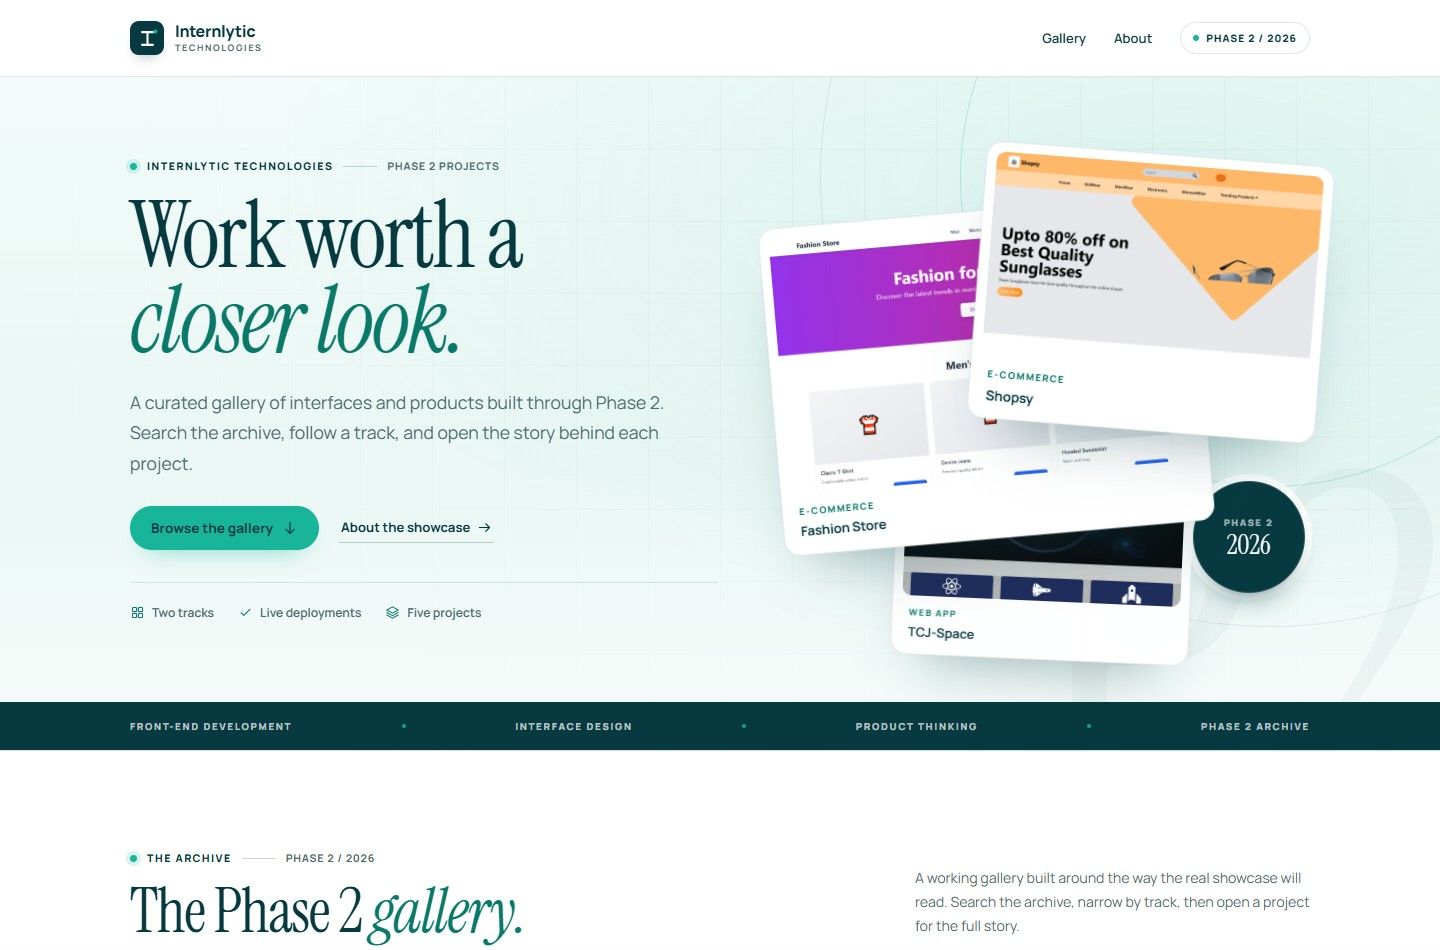
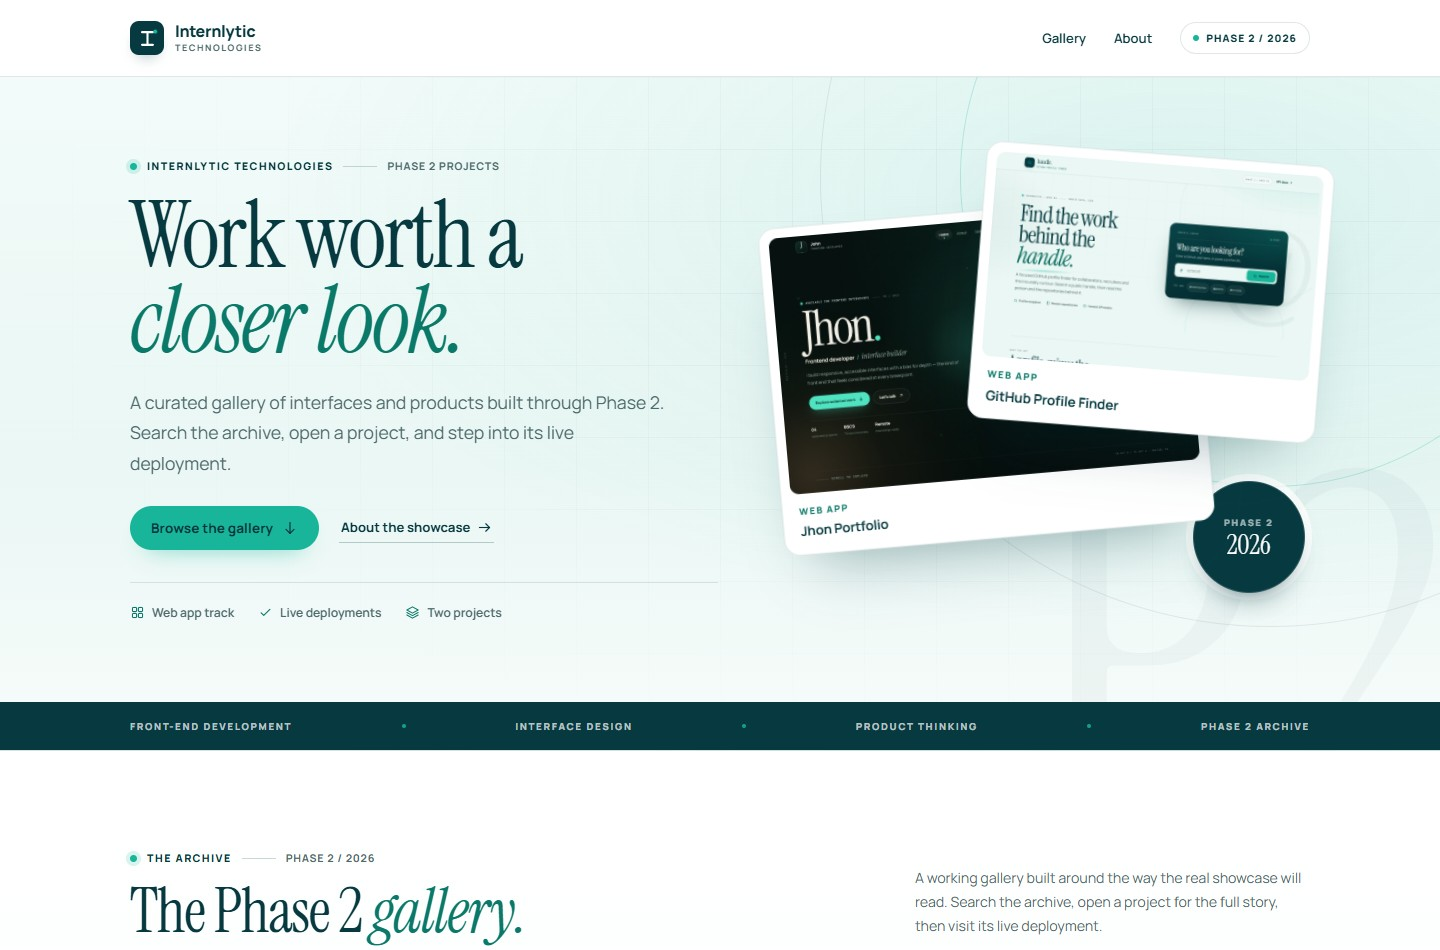
Narrow the gallery to the two front-end projects
Remove Fashion Store, Shopsy and TCJ-Space so the archive holds only the
portfolio and GitHub Profile Finder. The hero, about panel, meta tags, README,
previews and social cover now describe two projects on one track; filter chips
are derived from the tracks actually present, so the empty E-commerce category
no longer appears, and the unused screenshots are deleted. The mobile hero seal
also moves clear of the first card's caption now that only two preview cards
render.

diff --git a/src/data/projects.ts b/src/data/projects.ts
@@ -1,7 +1,7 @@
 import type { Project } from '../types'
 
 /**
- * Five existing Phase 2 projects, linked to their public deployments.
+ * Two existing Phase 2 projects, linked to their public deployments.
  *
  * All links were supplied by the project owner and return a live page.
  * Repository links are omitted rather than pointing at an unverified repo.
@@ -9,60 +9,6 @@ import type { Project } from '../types'
  * original build date.
  */
 export const showcaseProjects: Project[] = [
-  {
-    id: 'fashion-store',
-    projectTitle: 'Fashion Store',
-    internName: 'Jhon',
-    track: 'E-commerce',
-    description:
-      'A responsive clothing storefront with men’s, women’s and children’s collections, product cards and cart controls.',
-    longDescription:
-      'Fashion Store was built to practise scale: a storefront that stays coherent when the catalogue grows. The live site carries three collections, reusable product and navigation components, and a grid that moves from a wide desktop layout to a single readable column on phones.',
-    thumbnailUrl: 'thumbnails/fashion-store.jpg',
-    thumbnailAlt:
-      'Screenshot of the Fashion Store homepage with a colourful hero and a three-column men’s collection grid.',
-    liveUrl: 'https://fashion-shop2468.netlify.app/',
-    githubUrl: null,
-    technologies: ['React', 'TypeScript', 'Tailwind CSS'],
-    approvalStatus: 'approved',
-    createdAt: '2026-10-27T00:00:00.000Z',
-  },
-  {
-    id: 'shopsy',
-    projectTitle: 'Shopsy',
-    internName: 'Jhon',
-    track: 'E-commerce',
-    description:
-      'A shopping interface focused on clear discovery, promotion carousels and touch-friendly product browsing.',
-    longDescription:
-      'Shopsy is a component-first shopping UI built around effortless browsing. Category navigation, a rotating promotion area and consistent product cards share one spacing system, and the controls are sized for touch first. The live build covers kidswear, menswear, womenswear, electronics and a trending-products shelf.',
-    thumbnailUrl: 'thumbnails/shopsy.jpg',
-    thumbnailAlt:
-      'Screenshot of the Shopsy storefront with an orange promotion banner, category navigation and sunglasses artwork.',
-    liveUrl: 'https://shopsy-12345.netlify.app/',
-    githubUrl: null,
-    technologies: ['React', 'Tailwind CSS', 'HTML5'],
-    approvalStatus: 'approved',
-    createdAt: '2026-10-27T00:00:00.000Z',
-  },
-  {
-    id: 'tcj-space',
-    projectTitle: 'TCJ-Space',
-    internName: 'Jhon',
-    track: 'Web app',
-    description:
-      'A satellite information site that turns dense material into a calm, scannable layout.',
-    longDescription:
-      'TCJ-Space presents satellite services without overwhelming the reader. The design leans on hierarchy: quiet navigation, strong section headings and a dark, image-led hero. The live site introduces satellite services, a technology overview and supporting detail sections across a responsive layout.',
-    thumbnailUrl: 'thumbnails/tcj-space.jpg',
-    thumbnailAlt:
-      'Screenshot of the TCJ-Space homepage with a dark starfield, glowing Earth and satellite service cards.',
-    liveUrl: 'https://tcj-space1.netlify.app/',
-    githubUrl: null,
-    technologies: ['React', 'Tailwind CSS', 'HTML5'],
-    approvalStatus: 'approved',
-    createdAt: '2026-10-27T00:00:00.000Z',
-  },
   {
     id: 'week-02-portfolio',
     projectTitle: 'Jhon Portfolio',

diff --git a/src/components/ProjectsPage.tsx b/src/components/ProjectsPage.tsx
@@ -46,6 +46,16 @@ export function ProjectsPage() {
     [projects, query, track],
   )
 
+  // Only offer tracks that the archive actually contains, so the toolbar never
+  // advertises an empty category.
+  const filterTracks = useMemo(
+    () =>
+      status === 'success'
+        ? TRACKS.filter((item) => counts[item] > 0)
+        : [...TRACKS],
+    [counts, status],
+  )
+
   const isFiltering = query.trim().length > 0 || track !== 'all'
 
   let summary = 'Loading projects…'
@@ -98,8 +108,8 @@ export function ProjectsPage() {
             </h2>
             <p className="section-note">
               A working gallery built around the way the real showcase will
-              read. Search the archive, narrow by track, then open a project for
-              the full story.
+              read. Search the archive, open a project for the full story, then
+              visit its live deployment.
             </p>
           </div>
         </div>
@@ -123,7 +133,7 @@ export function ProjectsPage() {
             counts={status === 'success' ? counts : undefined}
             onChange={setTrack}
             total={projects.length}
-            tracks={[...TRACKS]}
+            tracks={filterTracks}
           />
 
           <div className="toolbar-foot">
@@ -180,7 +190,7 @@ export function ProjectsPage() {
 
         <p className="sample-note">
           <Icon name="info" size={15} />
-          Five existing Phase 2 projects, each linked to its public deployment.
+          Two existing Phase 2 projects, each linked to its public deployment.
           Only work cleared for public display should appear in a production
           gallery.
         </p>

diff --git a/index.html b/index.html
@@ -7,7 +7,7 @@
     <meta name="theme-color" content="#073A40" />
     <meta
       name="description"
-      content="A curated gallery of front-end and e-commerce projects built through Internlytic Phase 2, with live links to each deployment."
+      content="A curated gallery of front-end projects built through Internlytic Phase 2, with live links to each deployment."
     />
 
     <title>Internlytic — Phase 2 Projects Showcase</title>
@@ -25,7 +25,7 @@
     <meta property="og:title" content="Internlytic — Phase 2 Projects Showcase" />
     <meta
       property="og:description"
-      content="A curated gallery of front-end and e-commerce projects built through Internlytic Phase 2. Search the archive, filter by track and open each live project."
+      content="A curated gallery of front-end projects built through Internlytic Phase 2. Search the archive and open each live project."
     />
     <meta property="og:image" content="./og-cover.jpg" />
     <meta property="og:image:alt" content="Internlytic Phase 2 intern projects gallery" />
@@ -35,7 +35,7 @@
     <meta name="twitter:title" content="Internlytic — Phase 2 Projects Showcase" />
     <meta
       name="twitter:description"
-      content="A curated gallery of front-end and e-commerce projects built through Internlytic Phase 2. Search the archive, filter by track and open each live project."
+      content="A curated gallery of front-end projects built through Internlytic Phase 2. Search the archive and open each live project."
     />
     <meta name="twitter:image" content="./og-cover.jpg" />
   </head>

diff --git a/src/components/AboutShowcase.tsx b/src/components/AboutShowcase.tsx
@@ -49,18 +49,18 @@ export function AboutShowcase() {
 
           <p className="about-copy-text">
             Each entry follows the shape of a real submission record — creator,
-            track, summary, stack and links. The five projects here are existing
+            track, summary, stack and links. Both projects here are existing
             live deployments; external links render only when a project supplies
             a valid public URL.
           </p>
 
           <div className="about-facts">
             <div>
-              <strong>02</strong>
-              <span>Tracks</span>
+              <strong>01</strong>
+              <span>Track</span>
             </div>
             <div>
-              <strong>05</strong>
+              <strong>02</strong>
               <span>Live projects</span>
             </div>
             <div>
@@ -93,7 +93,7 @@ export function AboutShowcase() {
             <Icon name="sparkle" size={18} />
           </span>
           <p>
-            <strong>Data &amp; privacy.</strong> This gallery runs on five
+            <strong>Data &amp; privacy.</strong> This gallery runs on two
             existing public projects. There is no production Internlytic
             database connection; a production version would read only approved
             rows from Supabase through row-level security, link each project to

diff --git a/src/components/Hero.tsx b/src/components/Hero.tsx
@@ -30,8 +30,8 @@ export function Hero() {
 
           <p className="hero-lede">
             A curated gallery of interfaces and products built through Phase 2.
-            Search the archive, follow a track, and open the story behind each
-            project.
+            Search the archive, open a project, and step into its live
+            deployment.
           </p>
 
           <div className="hero-actions">
@@ -48,7 +48,7 @@ export function Hero() {
           <ul className="hero-facts">
             <li>
               <Icon name="grid" size={15} />
-              Two tracks
+              Web app track
             </li>
             <li>
               <Icon name="check" size={15} />
@@ -56,7 +56,7 @@ export function Hero() {
             </li>
             <li>
               <Icon name="layers" size={15} />
-              Five projects
+              Two projects
             </li>
           </ul>
         </div>

diff --git a/src/styles/global.css b/src/styles/global.css
@@ -2242,8 +2242,8 @@ ol {
   }
 
   .hero-seal {
-    bottom: 6%;
-    right: 2%;
+    bottom: 0;
+    right: -3%;
   }
 
   .hero-visual,

diff --git a/README.md b/README.md
@@ -6,13 +6,10 @@ A curated project gallery built for **Internlytic Technologies — Phase 2 Front
 
 ## Overview
 
-The showcase presents **five existing Phase 2 projects**, each linked to its public Netlify deployment. The records are real work rather than placeholder content: titles, descriptions, technology stacks and thumbnails all describe the deployed sites, and every card links straight to the live page.
+The showcase presents **two existing Phase 2 projects**, each linked to its public Netlify deployment. The records describe real work rather than placeholder content: titles, descriptions, technology stacks and thumbnails all match the deployed sites, and every card links straight to the live page.
 
 | Project | Track | Live deployment |
 | --- | --- | --- |
-| Fashion Store | E-commerce | <https://fashion-shop2468.netlify.app/> |
-| Shopsy | E-commerce | <https://shopsy-12345.netlify.app/> |
-| TCJ-Space | Web app | <https://tcj-space1.netlify.app/> |
 | Jhon Portfolio | Web app | <https://week-02-portfolio.netlify.app/> |
 | GitHub Profile Finder | Web app | <https://week-03-github-finder.netlify.app/> |
 
@@ -23,7 +20,7 @@ No production Internlytic data, private records or credentials are included. Rep
 - **Gallery cards** with a real project screenshot, title, intern name, track, short description, technology tags, a **View project** action and a **Live** link to the deployment.
 - **Project detail dialog** with the screenshot, full description, technology stack, the date the entry was added to the archive, approval status and conditional project links. Closes with Escape, the close button or a backdrop click, and returns focus to the card that opened it.
 - **Search by project title or intern name** — case- and accent-insensitive, with a `/` keyboard shortcut and Escape to clear.
-- **Track filters** (Web app, E-commerce) with live project counts, `aria-pressed` state and a one-click reset. Search and track filters combine.
+- **Track filters** with live project counts, `aria-pressed` state and a one-click reset. Only tracks present in the archive are offered, so the toolbar never advertises an empty category. Search and track filters combine.
 - **Honest states** — skeleton loading, an empty gallery, a no-results view with the active query and a retryable error message.
 - **Demo state previews** through query parameters (`?demo=loading`, `?demo=empty`, `?demo=error`) without changing the archive data.
 - **Safe external links** — only `http(s)` URLs are rendered, links are conditional and open in a new tab with `rel="noreferrer"`.
@@ -33,7 +30,7 @@ No production Internlytic data, private records or credentials are included. Rep
 
 | Gallery | Project detail |
 | --- | --- |
-| ![Gallery with search and track filters](docs/preview-gallery.jpg) | ![Project detail dialog for Fashion Store](docs/preview-dialog.jpg) |
+| ![Gallery with search and track filters](docs/preview-gallery.jpg) | ![Project detail dialog for Jhon Portfolio](docs/preview-dialog.jpg) |
 
 <p align="center">
   <img src="docs/preview-mobile.jpg" width="360" alt="Mobile gallery with search and track filters" />
@@ -45,7 +42,7 @@ No production Internlytic data, private records or credentials are included. Rep
 
 | No-results view |
 | --- |
-| ![No projects match the tailwind search](docs/preview-no-results.jpg) |
+| ![No projects match the vite search](docs/preview-no-results.jpg) |
 
 ## Tech stack
 
@@ -79,7 +76,7 @@ The dev server prints its local URL (Vite defaults to `http://localhost:5173`).
 https://<your-username>.github.io/<repository-name>/
 ```
 
-Until then, use the local commands above. `vite.config.ts` sets `base: './'`, so a build also works from a project subpath. The five featured projects are themselves live at the Netlify URLs listed in the overview table.
+Until then, use the local commands above. `vite.config.ts` sets `base: './'`, so a build also works from a project subpath. Both featured projects are themselves live at the Netlify URLs listed in the overview table.
 
 ## Demo state previews
 
@@ -113,7 +110,7 @@ The UI is typed against the fields a Supabase record would supply. `approvalStat
 | `approvalStatus` | `'approved' \| 'pending'` | Only `approved` records are displayed. |
 | `createdAt` | ISO date string | Date the entry was added to this archive; used for ordering. |
 
-The five records live in [`src/data/projects.ts`](src/data/projects.ts). Their thumbnails are screenshots of the deployed sites captured at 1440 × 900, and `createdAt` records when each entry joined this showcase rather than the original build date. `githubUrl` is `null` for every record because no verified public repository exists for them; the interface never invents destinations.
+The two records live in [`src/data/projects.ts`](src/data/projects.ts). Both are Web app projects, so the gallery offers the **All projects** and **Web app** filters; the model still supports E-commerce for future submissions. Thumbnails are screenshots of the deployed sites captured at 1440 × 900, and `createdAt` records when each entry joined this showcase rather than the original build date. `githubUrl` is `null` for both records because no verified public repository exists for them; the interface never invents destinations.
 
 ## Future Supabase integration
 
@@ -181,8 +178,8 @@ Supabase's public anon key is designed to be visible; it is still read from `VIT
 
 Verified in Chrome with Playwright:
 
-- search by project title (`Shopsy` → one result) and by intern name (`Jhon` → all five), a technology keyword (correctly no results, because search is scoped to title and intern), Escape to clear and the `/` shortcut;
-- track filters and their counts (`E-commerce` → two results), a combined search and filter, a conflicting combination that keeps the honest no-results copy, and reset;
+- search by project title (`portfolio` → one result) and by intern name (`Jhon` → both projects), a technology keyword (`vite`, correctly no results because search is scoped to title and intern), Escape to clear and the `/` shortcut;
+- track filters and their counts (`Web app` → two results, and the empty E-commerce chip is not rendered), a combined search and filter, a conflicting combination that keeps the honest no-results copy, and reset;
 - every card exposes exactly one `Live` link pointing at the supplied deployment with `target="_blank"` and `rel="noreferrer"`, and no fabricated repository link;
 - dialog open, title, live flag, deployment link, body scroll lock, Escape close, backdrop close, close button and focus return;
 - empty, loading, error and retry flows through the demo parameters; no-results copy with the active query;
@@ -201,7 +198,7 @@ Brand palette used across the interface:
 | White | `#FFFFFF` | Cards and content surfaces |
 | Light background | `#EAF7F4` | Page and section tint |
 
-Typography pairs Instrument Serif for editorial headlines with Manrope for interface text. Card and dialog artwork is screenshots of the five deployed projects, cropped to a consistent 8:5 ratio; the hero collage reuses three of them as layered preview cards.
+Typography pairs Instrument Serif for editorial headlines with Manrope for interface text. Card and dialog artwork is screenshots of the two deployed projects, cropped to a consistent 8:5 ratio; the hero collage layers the same two captures as desktop-style preview cards.
 
 > **Logo note:** the official Internlytic logo file was not supplied with this brief. The header uses a clearly marked typographic placeholder wordmark and lettermark, with fixed proportions and no distortion. Replace the mark in [`src/components/BrandMark.tsx`](src/components/BrandMark.tsx) and [`public/favicon.svg`](public/favicon.svg) when the official asset is available.
 
@@ -212,7 +209,7 @@ src/
   App.tsx                  Page composition and skip link
   components/              Header, Hero, gallery toolbar, cards, dialog,
                            states, About panel, Footer, BrandMark, Icon
-  data/projects.ts         Five approved live-project records
+  data/projects.ts         Two approved live-project records
   hooks/useProjects.ts     Loading, success and error state machine
   lib/projects.ts          Async loader and demo-state handling
   lib/format.ts            Search, date formatting and safe URL helpers
@@ -220,7 +217,7 @@ src/
   types.ts                 Track, approval status and Project types
 docs/                      README preview images
 public/
-  thumbnails/              Five screenshots of the live projects
+  thumbnails/              Two screenshots of the live projects
   favicon.svg              Placeholder brand mark
   og-cover.jpg             1200 × 630 social cover
 ```
@@ -236,7 +233,7 @@ A GitHub Pages workflow lives at `.github/workflows/deploy.yml`. It runs on push
 
 ## Limitations
 
-- The five records describe existing public deployments owned by the intern; the gallery itself has no production database connection.
+- The two records describe existing public deployments owned by the intern; the gallery itself has no production database connection.
 - Repository links are omitted because no verified public repository exists for these projects. The UI adds those buttons automatically when a valid URL is present.
 - Thumbnails are static captures of the live sites; if a deployment changes, its screenshot drifts until it is recaptured.
 - The official Internlytic logo was not provided; the current wordmark is a documented placeholder.
